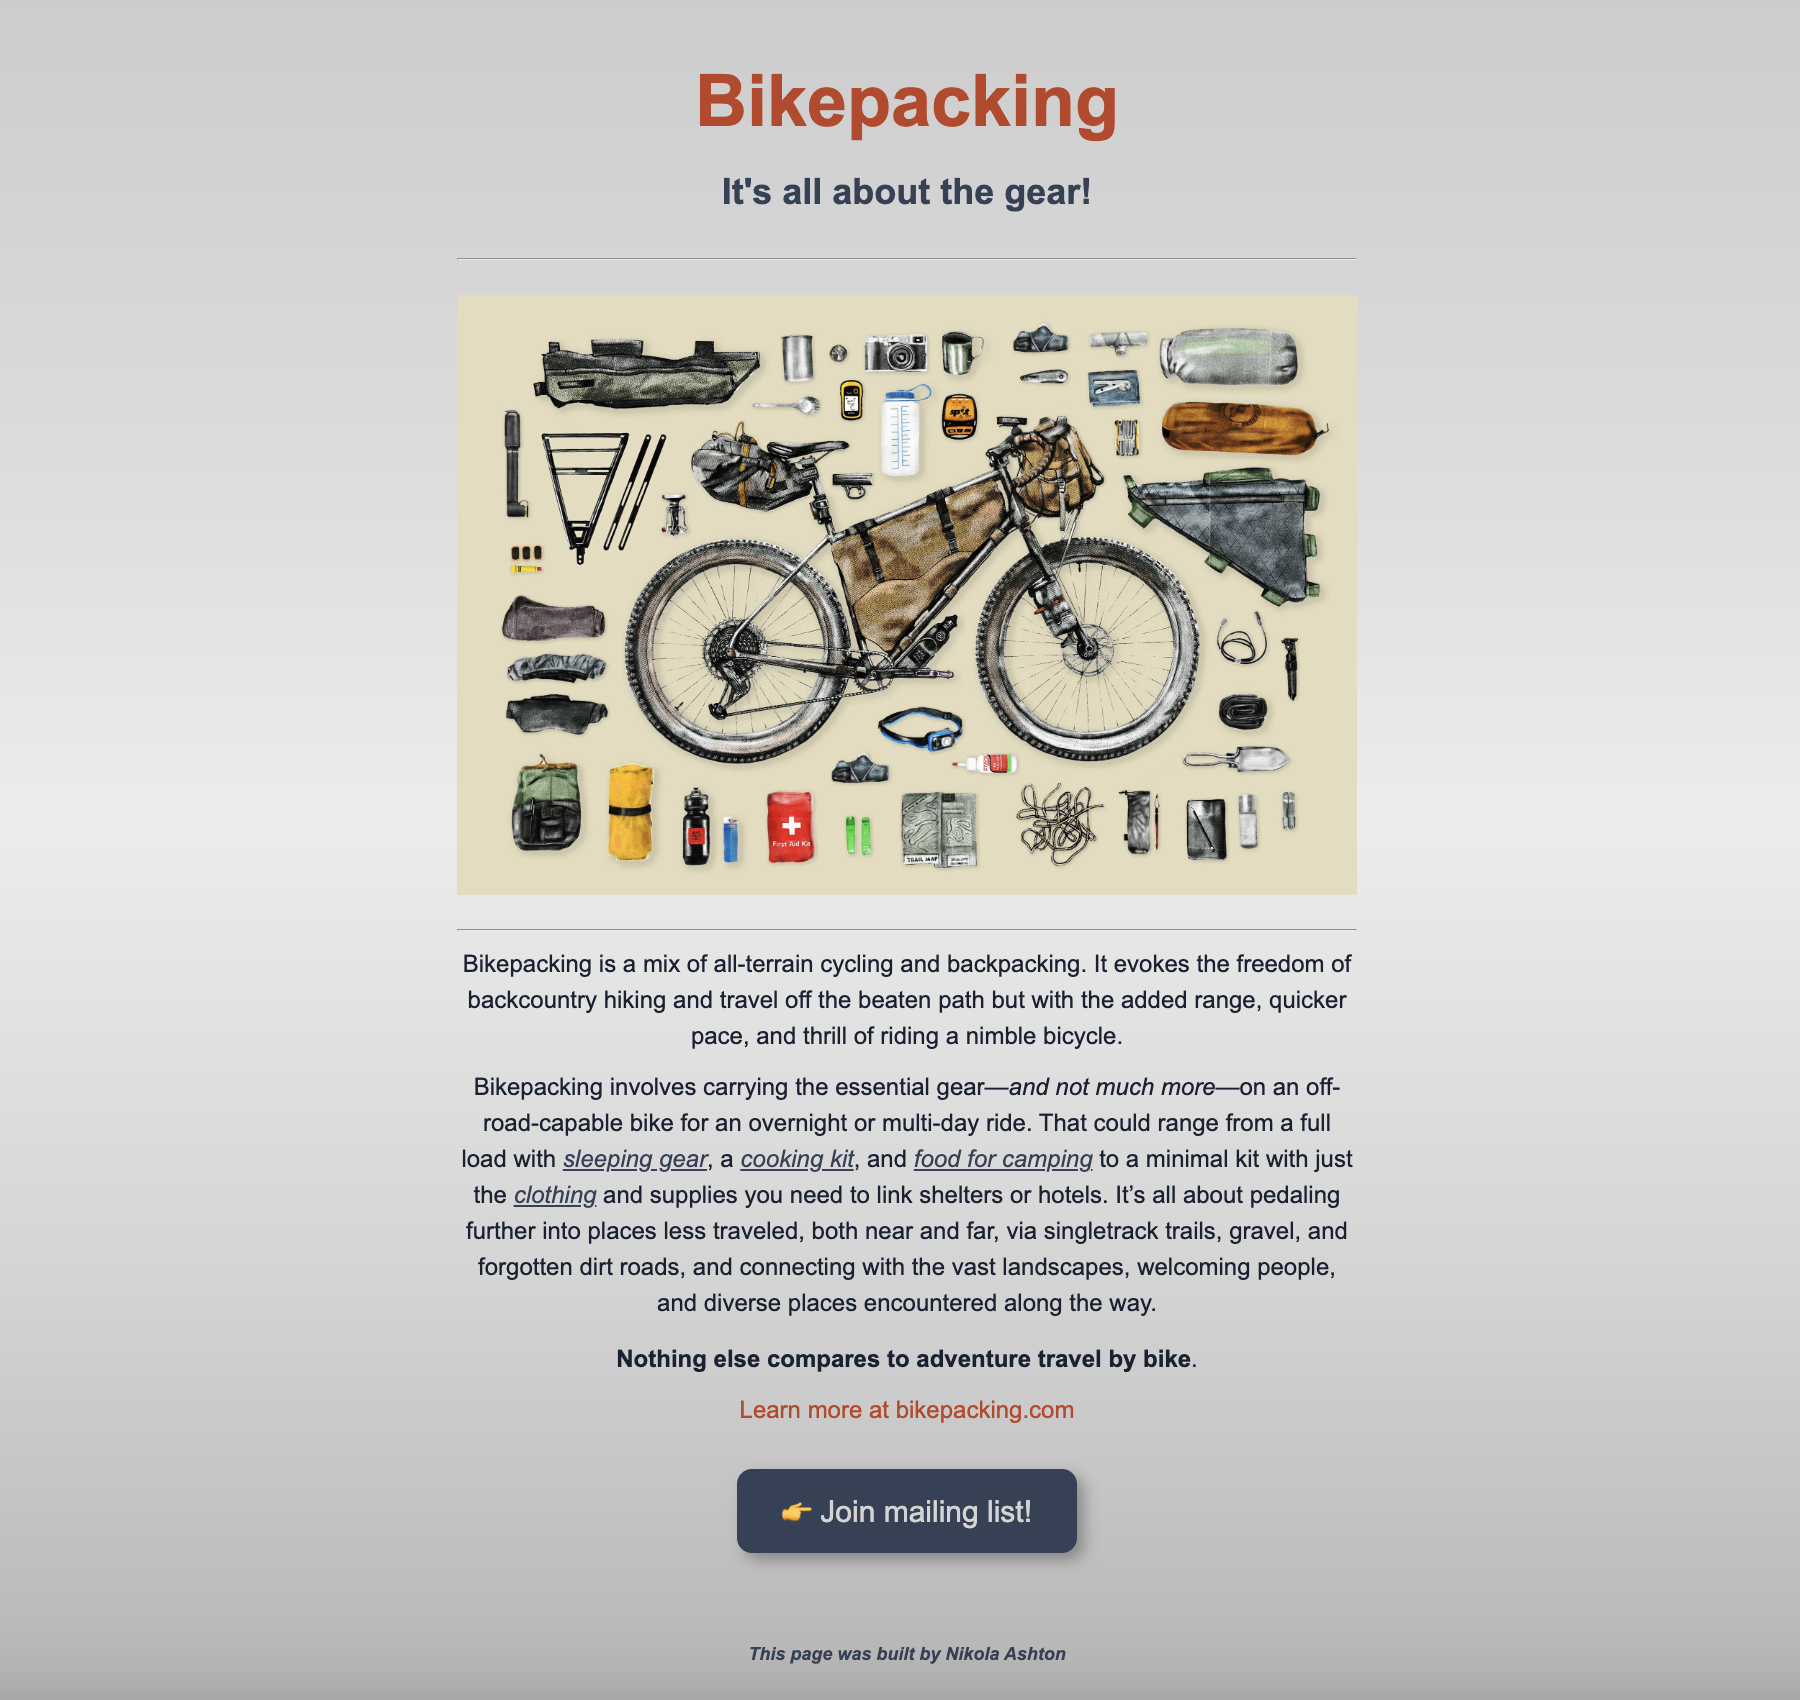
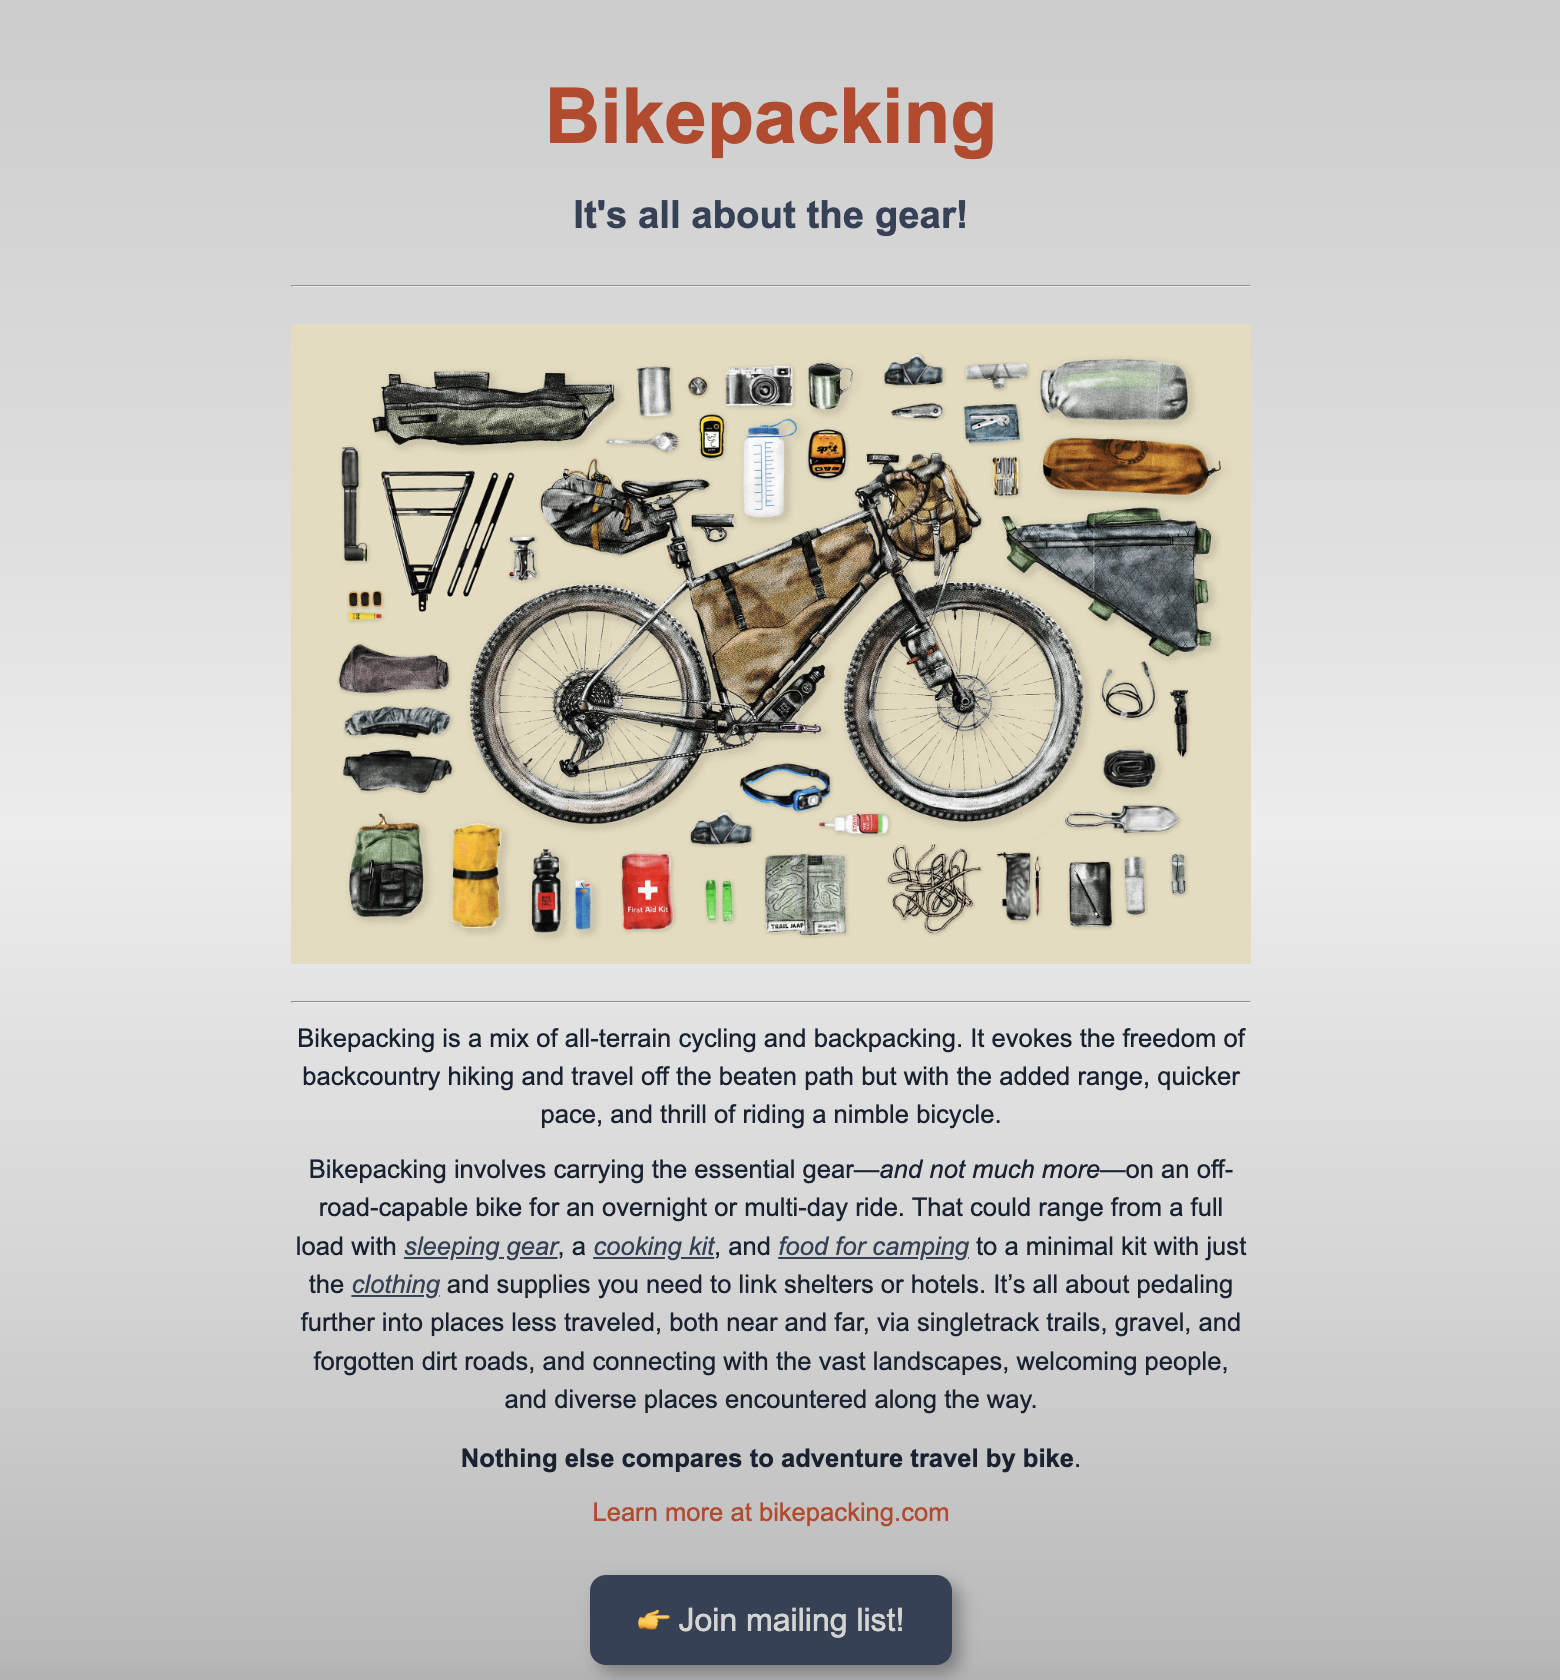
Standardised image size, made responsive

Changed region(s): [[0.1846, 0.1857, 0.8, 1.0], [0.3385, 0.031, 0.6462, 0.1548]]

diff --git a/about.html b/about.html
@@ -47,7 +47,7 @@
     </nav>
     <div class="content-container container">
       <div class="row">
-        <div class="col m-5">
+        <div class="col mt-5">
           <div class="content">
             <h1 class="mb-4">
               Hi I'm Nikola Ashton
@@ -61,13 +61,16 @@
             </p>
             <p>
               I have a proven track record of working within multi-disciplinary teams, leading initiatives, and
-              implementing improvements in various professional settings. My journey began in nursing and healthcare management,
-              where I developed exceptional organisational and leadership skills. Transitioning to frontend development, I have leveraged my experience in project
+              implementing improvements in various professional settings. My journey began in nursing and healthcare
+              management,
+              where I developed exceptional organisational and leadership skills. Transitioning to frontend development,
+              I have leveraged my experience in project
               coordination, effective communication, and collaborative relationship building to excel in this new field.
             </p>
             <p>
               Outside of work, I am an avid outdoor enthusiast. I love bikepacking, mountain biking, hiking, and
-              CrossFit, activities that keep me active and inspired. These hobbies have taught me resilience, problem-solving, and the
+              CrossFit, activities that keep me active and inspired. These hobbies have taught me resilience,
+              problem-solving, and the
               importance of maintaining a healthy work-life balance.
             </p>
             <p>

diff --git a/work.html b/work.html
@@ -47,7 +47,7 @@
     </nav>
     <div class="content-container container">
       <div class="content">
-        <h1 class="mb-5">
+        <h1 class="text-center mt-5 mb-5">
           Take a look at what I've been working on!
         </h1>
         <div class="row">

diff --git a/styles/app.css b/styles/app.css
@@ -157,4 +157,10 @@ img {
     text-align: center;
     padding-bottom: 60px;
   }
+  .headshot {
+    margin: 0;
+  }
+  .skills-used li {
+    list-style-type: none;
+  }
 }
